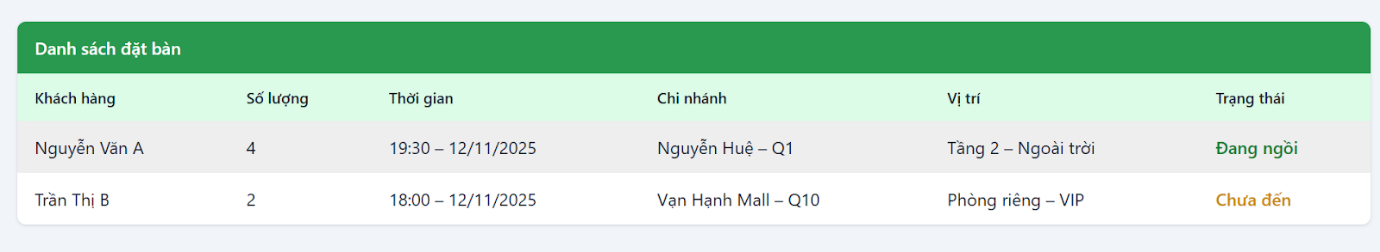
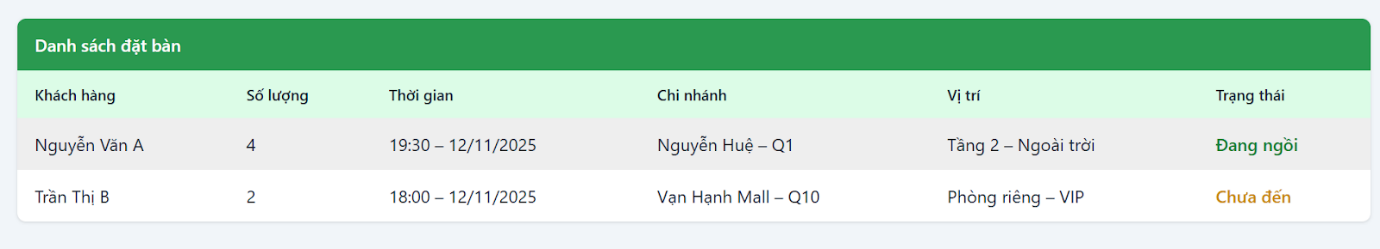
additional files

diff --git a/styles.css b/styles.css
@@ -50,9 +50,9 @@ body {
 a { color: var(--accent); }
 
 .container {
-  max-width: 1200px;
+  max-width: 1320px;
   margin: 0 auto;
-  padding: 0 32px;
+  padding: 0 40px;
 }
 
 /* NAV */
@@ -91,47 +91,6 @@ nav {
 
 /* HERO */
 header.hero { padding: 90px 0 70px; }
-.hero-grid {
-  display: grid;
-  grid-template-columns: 1fr minmax(280px, 360px);
-  gap: 50px;
-  align-items: center;
-}
-.hero-visual-card {
-  background: var(--surface);
-  border: 1px solid var(--border);
-  border-radius: var(--radius);
-  padding: 28px;
-  box-shadow: 0 20px 50px rgba(108, 126, 225, 0.10);
-}
-.hero-visual-card .hvc-label {
-  font-size: 12px;
-  text-transform: uppercase;
-  letter-spacing: 0.06em;
-  color: var(--muted);
-  margin: 0 0 18px;
-  font-weight: 600;
-}
-.hvc-row {
-  display: flex;
-  align-items: flex-start;
-  gap: 12px;
-  font-size: 14px;
-  color: var(--ink);
-  margin-bottom: 18px;
-  line-height: 1.5;
-}
-.hvc-row:last-child { margin-bottom: 0; }
-.hvc-row .dot {
-  flex-shrink: 0;
-  width: 10px;
-  height: 10px;
-  border-radius: 50%;
-  margin-top: 4px;
-}
-.dot.p1 { background: var(--proj1); }
-.dot.p2 { background: var(--proj2); }
-.dot.p3 { background: var(--proj3); }
 
 .eyebrow {
   font-size: 13px;
@@ -142,17 +101,18 @@ header.hero { padding: 90px 0 70px; }
 h1 {
   font-family: var(--font-display);
   font-weight: 600;
-  font-size: 44px;
-  line-height: 1.2;
-  margin: 0 0 20px;
+  font-size: 58px;
+  line-height: 1.15;
+  margin: 0 0 24px;
   letter-spacing: -0.01em;
-  max-width: 700px;
+  max-width: none;
 }
 .tagline {
-  font-size: 17px;
+  font-size: 21px;
+  line-height: 1.55;
   color: var(--muted);
-  max-width: 640px;
-  margin: 0 0 36px;
+  max-width: 780px;
+  margin: 0 0 32px;
 }
 .cta-row { display: flex; gap: 12px; flex-wrap: wrap; }
 .contact-line {
@@ -271,7 +231,7 @@ h2 {
   margin-bottom: 16px;
   font-weight: 500;
 }
-.case-header h1 { max-width: 700px; }
+.case-header h1 { max-width: none; }
 .case-meta { font-size: 13px; color: var(--muted); margin: 0 0 20px; }
 .case-header p.desc { font-size: 16px; max-width: 660px; margin: 0 0 10px; }
 
@@ -337,24 +297,31 @@ section.alt .gallery figure { background: var(--surface); }
 }
 
 /* SKILLS */
-.skills-grid {
-  display: grid;
-  grid-template-columns: repeat(auto-fit, minmax(220px, 1fr));
-  gap: 20px;
+.skills-list { display: flex; flex-direction: column; }
+.skills-row {
+  display: flex;
+  flex-wrap: wrap;
+  align-items: baseline;
+  gap: 6px 24px;
+  padding: 20px 0;
+  border-bottom: 1px solid var(--border);
 }
-.skill-card {
-  background: var(--surface);
-  border: 1px solid var(--border);
-  border-radius: var(--radius);
-  padding: 18px 20px;
-}
-.skill-card h4 {
+.skills-row:last-child { border-bottom: none; }
+.skills-row h4 {
   font-family: var(--font-display);
-  font-size: 14.5px;
+  font-size: 15px;
   font-weight: 600;
-  margin: 0 0 8px;
+  margin: 0;
+  flex: 0 0 200px;
+  color: var(--ink);
 }
-.skill-card p { font-size: 13.5px; color: var(--muted); margin: 0; }
+.skills-row p {
+  font-size: 15px;
+  color: var(--muted);
+  margin: 0;
+  flex: 1 1 400px;
+  line-height: 1.7;
+}
 
 /* CONTACT */
 .contact-box {
@@ -375,17 +342,10 @@ footer {
   color: var(--muted);
 }
 
-@media (max-width: 900px) {
-  .hero-grid { grid-template-columns: 1fr; }
-  .hero-visual-card { max-width: 420px; }
-}
-
 @media (max-width: 640px) {
   .nav-links { display: none; }
-  h1 { font-size: 32px; }
+  h1 { font-size: 36px; }
   .contact-box { padding: 30px 20px; }
-  .hero-grid { grid-template-columns: 1fr; }
-  .hero-visual-card { display: none; }
 }
 
 /* GALLERY — click to enlarge */

diff --git a/index.html b/index.html
@@ -24,23 +24,13 @@
 </nav>
 
 <header class="hero container" id="about">
-  <div class="hero-grid">
-    <div>
-      <p class="eyebrow">Business Analyst Intern / Fresher</p>
-      <h1>Hi, I'm Thu Uyen.</h1>
-      <p class="tagline">Final-year Management Information Systems student with an interest in turning business needs into clear, workable solutions. My academic projects have built a solid foundation in requirements analysis, business process design, and Odoo ERP implementation.</p>
-      <p class="contact-line" id="contact">Reach me at <a href="mailto:uyenthutran2104@gmail.com">uyenthutran2104@gmail.com</a> &middot; <a href="https://github.com/thuuyen23003-blip" target="_blank" rel="noopener">GitHub</a> &middot; <a href="https://www.linkedin.com/in/uyen-tran-vo-thi-thu-7167b03a8/" target="_blank" rel="noopener">LinkedIn</a></p>
-      <div class="cta-row">
-        <a class="cta primary" href="#projects">View Projects</a>
-        <a class="cta secondary" href="mailto:uyenthutran2104@gmail.com">Contact</a>
-      </div>
-    </div>
-    <div class="hero-visual-card">
-      <p class="hvc-label">What I Bring</p>
-      <div class="hvc-row"><span class="dot p1"></span> Business process analysis on ERP systems</div>
-      <div class="hvc-row"><span class="dot p2"></span> End-to-end warehouse &amp; inventory workflows</div>
-      <div class="hvc-row"><span class="dot p3"></span> Data-informed system design, including a machine learning module</div>
-    </div>
+  <p class="eyebrow">Business Analyst Intern / Fresher</p>
+  <h1>Hi, I'm Thu Uyen.</h1>
+  <p class="tagline">Final-year Management Information Systems student who turns business needs into clear, workable solutions &mdash; through business process analysis on ERP systems, end-to-end warehouse &amp; inventory workflows, and data-informed system design, including a machine learning module.</p>
+  <p class="contact-line" id="contact">Reach me at <a href="mailto:uyenthutran2104@gmail.com">uyenthutran2104@gmail.com</a> &middot; <a href="https://github.com/thuuyen23003-blip" target="_blank" rel="noopener">GitHub</a> &middot; <a href="https://www.linkedin.com/in/uyen-tran-vo-thi-thu-7167b03a8/" target="_blank" rel="noopener">LinkedIn</a></p>
+  <div class="cta-row">
+    <a class="cta primary" href="#projects">View Projects</a>
+    <a class="cta secondary" href="mailto:uyenthutran2104@gmail.com">Contact</a>
   </div>
 </header>
 
@@ -91,18 +81,18 @@
     <p class="section-eyebrow">Capabilities</p>
     <h2>Skills</h2>
     <p class="section-intro">Built through the three projects above.</p>
-    <div class="skills-grid">
-      <div class="skill-card">
+    <div class="skills-list">
+      <div class="skills-row">
         <h4>Business Analysis</h4>
         <p>Requirements Analysis &middot; UML &middot; Use Case &middot; Activity &middot; Sequence &middot; BFD/DFD &middot; ERD</p>
       </div>
-      <div class="skill-card">
+      <div class="skills-row">
         <h4>Technical</h4>
         <p>Python &middot; SQL / PostgreSQL &middot; Odoo ERP &middot; Pandas / Scikit-learn</p>
       </div>
-      <div class="skill-card">
+      <div class="skills-row">
         <h4>Tools</h4>
-        <p>Microsoft Office (Word, Excel, PowerPoint) &middot; Odoo &middot; Canva &middot; draw.io</p>
+        <p>Microsoft Office (Word, Excel, PowerPoint) &middot; Odoo &middot; Canvas &middot; diagrams.net (draw.io)</p>
       </div>
     </div>
   </div>

diff --git a/projects/vinamilk-inventory.html b/projects/vinamilk-inventory.html
@@ -26,7 +26,7 @@
   <a class="back-link" href="../index.html">&larr; Back to portfolio</a>
   <span class="case-tag">Group Project &middot; Team Leader</span>
   <h1>Inventory Management at Vinamilk</h1>
-  <p class="case-meta">Group 04 &middot; Management Information Systems Course</p>
+  <p class="case-meta">Group Project &middot; Management Information Systems Course</p>
   <p class="desc">A study of how Vinamilk operates its warehouses, followed by the implementation of Odoo's Inventory module to model the company's inbound, outbound, and stocktaking processes end-to-end.</p>
 </header>
 
